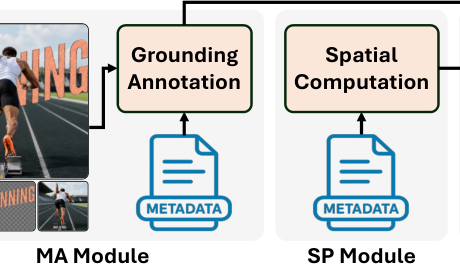
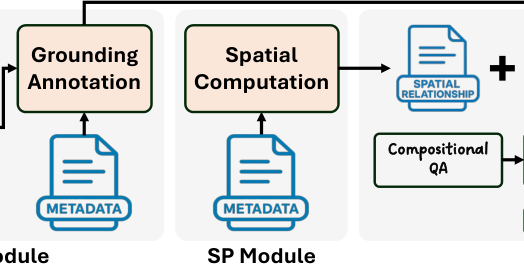
fix(slides): center SP between faded neighbouring modules
Crop Figure 4 symmetrically around SP, feather both neighbours, and omit their cropped label row while retaining the SP label.

diff --git a/themes/ly.css b/themes/ly.css
@@ -763,9 +763,8 @@ section img[src$="#crop-right"] {
   mask-image: linear-gradient(to right, black calc(100% - var(--crop-feather-width)), transparent);
 }
 section.sp-slide img[src$="#crop-left"] {
-  --crop-feather-width: 160px;
-  mask-image: linear-gradient(to right, transparent, black calc(100% - var(--crop-feather-width)), transparent), linear-gradient(to right, transparent, black calc(100% - var(--crop-feather-width)));
-  mask-size: 100% calc(var(--content-gap) * 3), 100% calc(100% - var(--content-gap) * 3);
+  mask-image: linear-gradient(to right, transparent, black 33%, black 67%, transparent), linear-gradient(to right, transparent 33%, black 33%, black 67%, transparent 67%);
+  mask-size: 100% 84%, 100% 16%;
   mask-position: top, bottom;
   mask-repeat: no-repeat;
 }

diff --git a/slides/example/slides.md b/slides/example/slides.md
@@ -343,7 +343,7 @@ $$
 
 ## MASON 3/3 **|** _SP: 質問対象レイヤーとの関係をメタデータへ明示_
 
-> ![Figure 4 の SP Module: 隣の MA Module を背景に、メタデータから空間関係を計算](assets/beyond-atomic-sp-context.png#crop-left)
+> ![Figure 4 の SP Module: 左の MA Module と右の VLM Training を背景に、メタデータから空間関係を計算](assets/beyond-atomic-sp-context.png#crop-left)
 >
 > Figure from [[Huang+ ECCV’26](https://arxiv.org/html/2608.26716v1#S3.F4)]:\
 > レイヤー間の空間関係を計算
